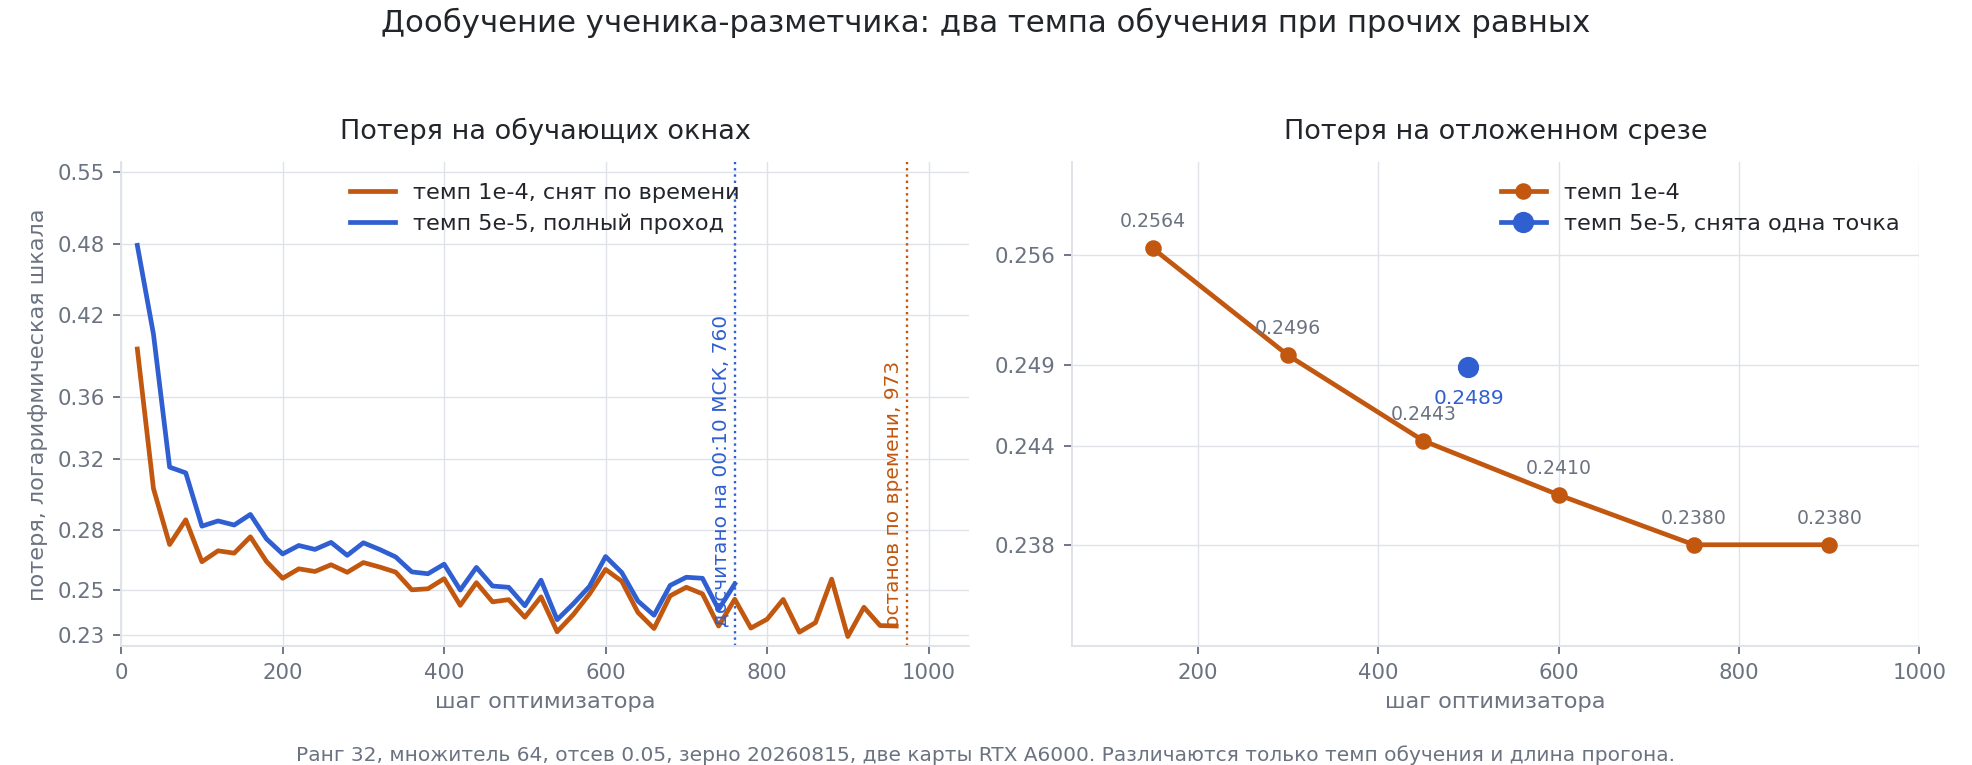
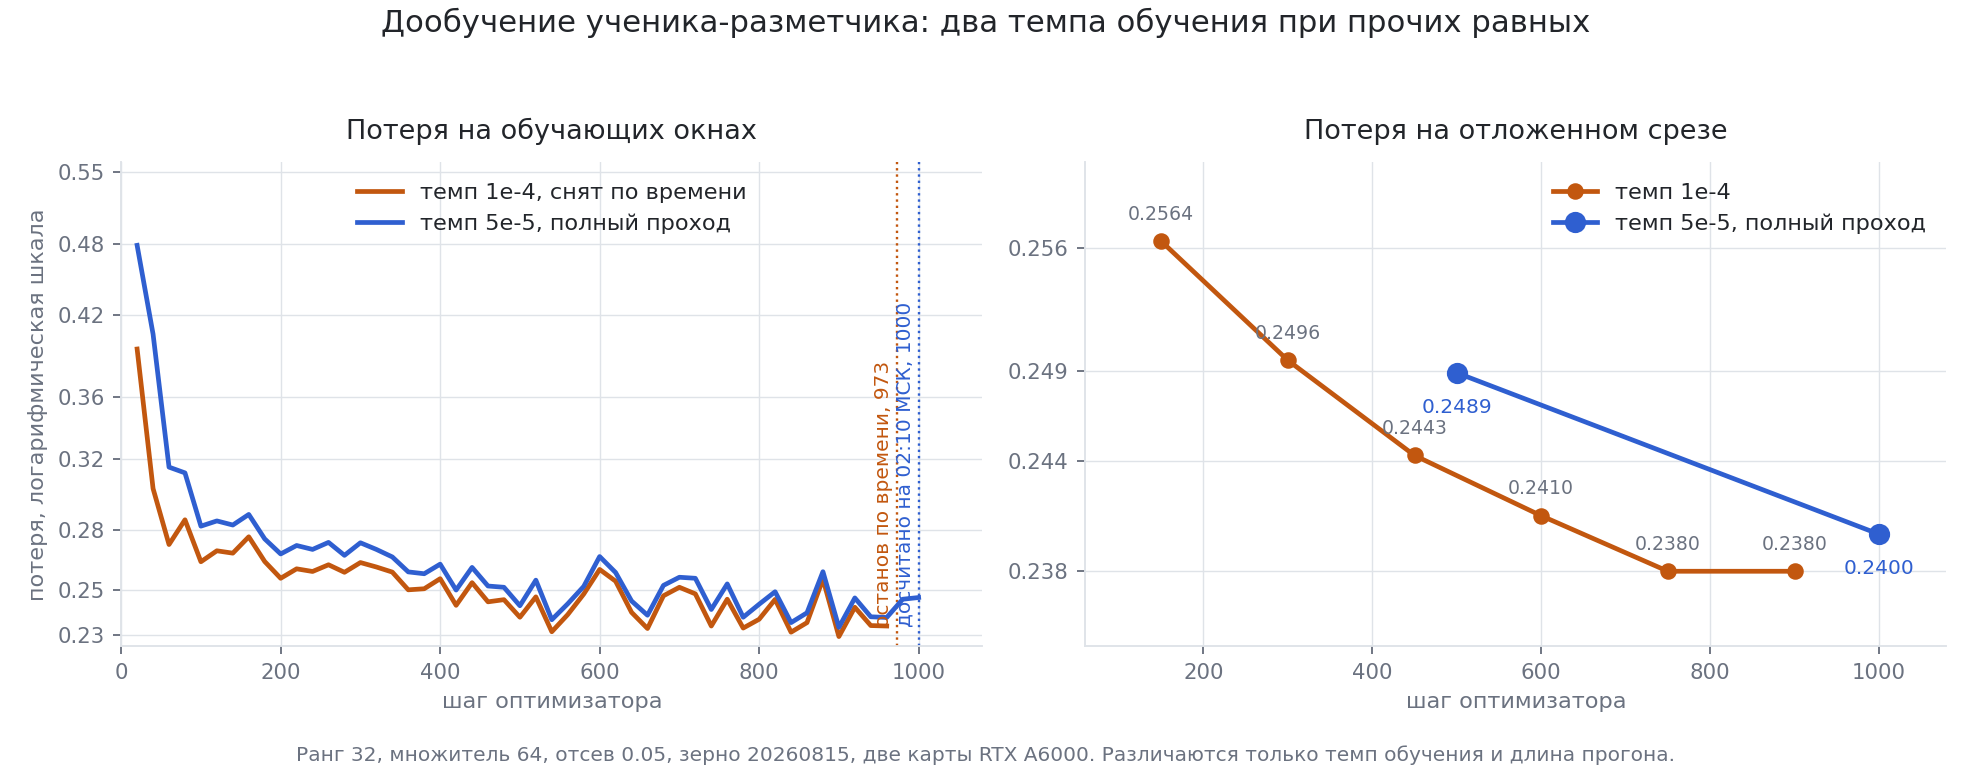
Кривые дообучения ученика обновлены второй точкой отложенного среза

diff --git a/docs/assets/draw_fig_student_loss.py b/docs/assets/draw_fig_student_loss.py
@@ -70,27 +70,27 @@ ax1.axvline(973, color=C_FAST, linewidth=1.0, linestyle=":", zorder=2)
 ax1.text(968, 0.2335, "останов по времени, 973  ", color=C_FAST, fontsize=8.5,
          va="bottom", ha="right", rotation=90)
 ax1.axvline(s_slow[-1], color=C_SLOW, linewidth=1.0, linestyle=":", zorder=2)
-ax1.text(s_slow[-1] - 5, 0.2335, f"досчитано на 00:10 МСК, {s_slow[-1]}  ",
+ax1.text(s_slow[-1] - 5, 0.2335, f"досчитано на 02:10 МСК, {s_slow[-1]}  ",
          color=C_SLOW, fontsize=8.5, va="bottom", ha="right", rotation=90)
 ax1.set_title("Потеря на обучающих окнах", fontsize=11.5, color=INK, pad=10)
 ax1.set_xlabel("шаг оптимизатора", fontsize=9.5, color=MUTED)
 ax1.set_ylabel("потеря, логарифмическая шкала", fontsize=9.5, color=MUTED)
-ax1.set_xlim(0, 1050)
+ax1.set_xlim(0, 1080)
 
 # --- панель 2: потеря на срезе --------------------------------------------
 ax2.plot([p[0] for p in v_fast], [p[1] for p in v_fast], color=C_FAST,
          linewidth=2.0, marker="o", markersize=6, zorder=3, label="темп 1e-4")
 ax2.plot([p[0] for p in v_slow], [p[1] for p in v_slow], color=C_SLOW,
-         linewidth=2.0, marker="o", markersize=8, zorder=3, label="темп 5e-5, снята одна точка")
+         linewidth=2.0, marker="o", markersize=8, zorder=3, label="темп 5e-5, полный проход")
 for st, lo in v_fast:
     ax2.annotate(f"{lo:.4f}", (st, lo), textcoords="offset points",
                  xytext=(0, 9), ha="center", fontsize=8, color=MUTED)
 for st, lo in v_slow:
     ax2.annotate(f"{lo:.4f}", (st, lo), textcoords="offset points",
-                 xytext=(0, -16), ha="center", fontsize=8.5, color=C_SLOW)
+                 xytext=(0, -17), ha="center", fontsize=8.5, color=C_SLOW)
 ax2.set_title("Потеря на отложенном срезе", fontsize=11.5, color=INK, pad=10)
 ax2.set_xlabel("шаг оптимизатора", fontsize=9.5, color=MUTED)
-ax2.set_xlim(60, 1000)
+ax2.set_xlim(60, 1080)
 
 ticks = [0.23, 0.25, 0.28, 0.32, 0.36, 0.42, 0.48, 0.55]
 for ax in (ax1, ax2):
@@ -98,7 +98,7 @@ for ax in (ax1, ax2):
     ax.yaxis.set_minor_locator(FixedLocator([]))
     ax.yaxis.set_major_formatter(FixedFormatter([f"{t:g}" for t in ticks]))
 ax1.set_ylim(0.225, 0.56)
-ax2.set_ylim(0.232, 0.262)
+ax2.set_ylim(0.234, 0.261)
 ax2.yaxis.set_major_locator(FixedLocator([0.238, 0.244, 0.249, 0.256]))
 ax2.yaxis.set_major_formatter(FixedFormatter(["0.238", "0.244", "0.249", "0.256"]))
 

diff --git a/docs/reports/report_2026_08_18.md b/docs/reports/report_2026_08_18.md
@@ -321,17 +321,17 @@
 
 Дообучений ученика было два, и различаются они ровно двумя вещами: темпом обучения и тем, докуда прогон дошёл. Всё прочее дословно совпадает — ранг 32, множитель 64, отсев 0.05, накопление градиента 4, зерно 20260815, тот же список целевых слоёв, тот же обучающий набор после передискретизации редких типов, база Qwen3.6-35B-A3B в bf16 на двух картах RTX A6000 с разбиением по слоям, потеря считается только на токенах ответа.
 
-Первый прогон шёл с темпом 1e-4 и был снят по пределу времени на 973 шаге, пройдя 3893 окна, то есть 12.5 процента плана. Именно он дал принятую контрольную точку ckpt_003600, на которой измерены все числа выше. Второй прогон идёт с темпом 5e-5, разогревом на 233 шага и косинусным затуханием до нуля, и рассчитан на полный проход по всем 31023 окнам, то есть 7755 шагов. Он начат 18 августа в 18:02 МСК, на 19 августа 00:10 МСК прошёл 760 шагов, ожидаемое завершение 21 августа около 08:16 МСК.
+Первый прогон шёл с темпом 1e-4 и был снят по пределу времени на 973 шаге, пройдя 3893 окна, то есть 12.5 процента плана. Именно он дал принятую контрольную точку ckpt_003600, на которой измерены все числа выше. Второй прогон идёт с темпом 5e-5, разогревом на 233 шага и косинусным затуханием до нуля, и рассчитан на полный проход по всем 31023 окнам, то есть 7755 шагов. Он начат 18 августа в 18:02 МСК, на 19 августа 02:10 МСК прошёл 1000 шагов из 7755, ожидаемое завершение 21 августа около 08:07 МСК.
 
 ![Кривые потери двух прогонов дообучения ученика](../assets/fig_student_loss.png)
 
 Обе панели даны в логарифмической шкале по потере: значения лежат в узкой полосе от 0.23 до 0.55, и на линейной оси вся поздняя часть кривой сливается в горизонталь.
 
-На обучающих окнах медленный темп идёт выше быстрого на всём общем отрезке. Первая записанная потеря на двадцатом шаге равна 0.479 у медленного против 0.394 у быстрого, и это не случайность, а следствие разогрева: на двадцатом шаге медленного прогона фактический темп составляет всего 4.5e-06. Порога 0.26 медленный прогон достигает на 360 шаге через 2.88 часа, быстрый на 200 шаге через 1.61 часа; порога 0.25 — на 500 шаге через 4.0 часа против 420 шага через 3.36 часа. На общем отрезке с 500 по 760 шаг средняя потеря равна 0.2498 у медленного и 0.2441 у быстрого. Разброс потери между соседними записями при этом одинаков, стандартное отклонение 0.0083 в обоих прогонах, то есть медленный темп не сделал обучение спокойнее.
+На обучающих окнах медленный темп идёт выше быстрого на всём общем отрезке. Первая записанная потеря на двадцатом шаге равна 0.479 у медленного против 0.394 у быстрого, и это не случайность, а следствие разогрева: на двадцатом шаге медленного прогона фактический темп составляет всего 4.5e-06. Порога 0.26 медленный прогон достигает на 360 шаге через 2.88 часа, быстрый на 200 шаге через 1.61 часа; порога 0.25 — на 500 шаге через 4.0 часа против 420 шага через 3.36 часа. На общем отрезке с 500 по 960 шаг средняя потеря равна 0.2466 у медленного и 0.2414 у быстрого. Разброс потери между соседними записями при этом одинаков, стандартное отклонение 0.0083 в обоих прогонах, то есть медленный темп не сделал обучение спокойнее.
 
-На отложенном срезе картина та же и пока неполная. У быстрого прогона снято шесть точек: 0.2564 на 150 шаге, дальше 0.2496, 0.2443, 0.2410, и на 750 и 900 шагах по 0.2380 — то есть последние 150 шагов не сдвинули потерю вовсе. У медленного прогона снята одна точка, 0.2489 на 500 шаге, и она хуже, чем 0.2443 у быстрого на 450 шаге.
+На отложенном срезе отставание медленного темпа сокращается вдвое от точки к точке. У быстрого прогона снято шесть точек: 0.2564 на 150 шаге, дальше 0.2496, 0.2443, 0.2410, и на 750 и 900 шагах по 0.2380 — то есть последние 150 шагов не сдвинули потерю вовсе. У медленного снято две: 0.2489 на 500 шаге против 0.2443 у быстрого при вдвое меньшем числе окон, разрыв 0.0046; и 0.2400 на 1000 шаге против 0.2380, разрыв 0.0020. Быстрый прогон на своём последнем участке уже стоял на месте, медленный продолжает снижаться, пройдя восьмую часть расписания.
 
-Читать это надо осторожно, потому что сравнение неравноправно. Смысл медленного прогона не в том, чтобы обогнать быстрый на первой тысяче шагов, а в том, чтобы пройти оставшиеся 87.5 процента обучающих окон, которых быстрый прогон не видел вовсе; при темпе 1e-4 такой проход не проверялся. Судить о том, окупился ли он, можно будет только по согласию с судьёй на отложенных окнах после 21 августа, а не по потере: потеря считается на токенах ответа и в меру согласия не переводится. Плато на 750 и 900 шагах у быстрого прогона согласуется с уже измеренным падением отдачи от объёма — последние 1800 примеров дали прибавку согласия 0.0101 с промежутком от −0.0179 до 0.0383, то есть неотличимую от нуля.
+Читать это надо осторожно, потому что сравнение неравноправно. Смысл медленного прогона не в том, чтобы обогнать быстрый на первой тысяче шагов, а в том, чтобы пройти оставшиеся 87.5 процента обучающих окон, которых быстрый прогон не видел вовсе; при темпе 1e-4 такой проход не проверялся. Точка на 1000 шаге и 4000 окнах стоит сразу за местом остановки быстрого прогона на 3893 окнах, поэтому её оценка порождением на 469 отложенных окнах прямо ответит, была ли та остановка потерей. Судить о том, окупился ли он, можно будет только по согласию с судьёй на отложенных окнах после 21 августа, а не по потере: потеря считается на токенах ответа и в меру согласия не переводится. Плато на 750 и 900 шагах у быстрого прогона согласуется с уже измеренным падением отдачи от объёма — последние 1800 примеров дали прибавку согласия 0.0101 с промежутком от −0.0179 до 0.0383, то есть неотличимую от нуля.
 
 Числа кривых: в черновом рабочем репозитории internal_signals_poc/lora_judge_2026_08_15/outputs/train_log.jsonl, internal_signals_poc/lora_judge_full_2026_08_18/outputs/train/train_log.jsonl, свод сравнения internal_signals_poc/lora_judge_full_2026_08_18/outputs/lr_compare.json и точки среза internal_signals_poc/lora_judge_full_2026_08_18/outputs/val_loss_curve.json. Рисунок строится docs/assets/draw_fig_student_loss.py.
 
